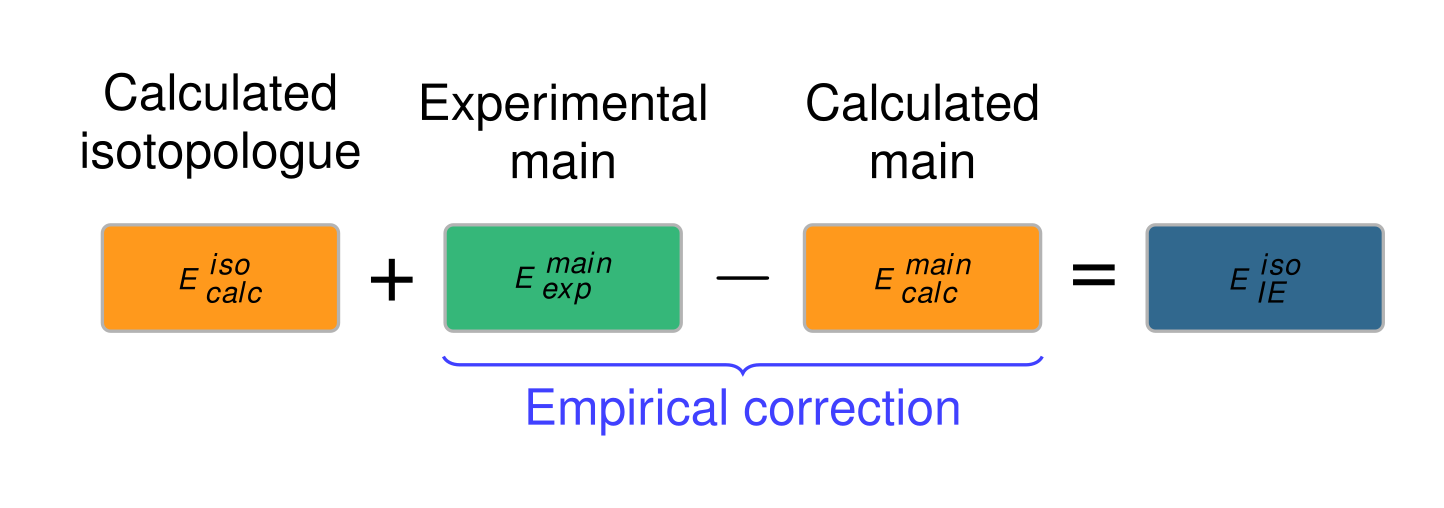
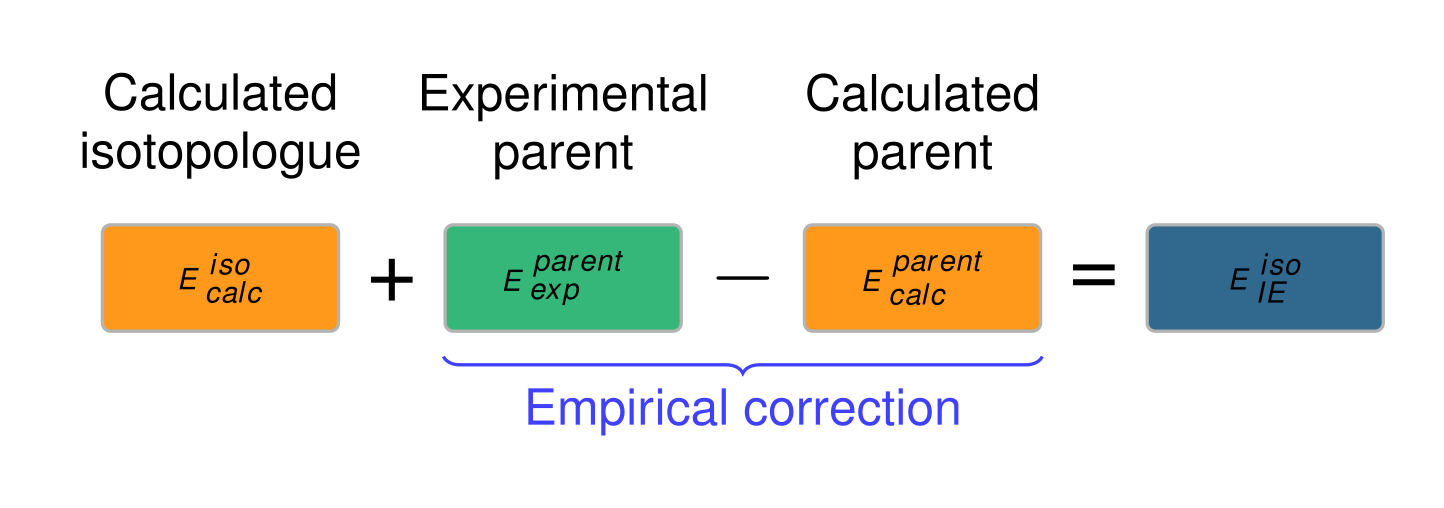
Updated IE method with correct naming convention for "parent" (most abundant) isotopologue

diff --git a/Isotopologue_extrapolation/ie.tex b/Isotopologue_extrapolation/ie.tex
@@ -28,9 +28,9 @@
 % Main equation boxes
 \node[box, calc] (iso) {$E_{calc}^{iso}$};
 \node[font=\huge, right=0.1cm of iso] (plus) {$+$};
-\node[box, exp, right=0.1cm of plus] (exp) {$E_{exp}^{main}$};
+\node[box, exp, right=0.1cm of plus] (exp) {$E_{exp}^{parent}$};
 \node[font=\huge, right=0.1cm of exp] (minus) {$-$};
-\node[box, calc, right=0.1cm of minus] (calc) {$E_{calc}^{main}$};
+\node[box, calc, right=0.1cm of minus] (calc) {$E_{calc}^{parent}$};
 \node[font=\huge, right=0.1cm of calc] (equals) {$=$};
 \node[box, ie, right=0.1cm of equals] (result) {$E_{IE}^{iso}$};
 
@@ -38,9 +38,9 @@
 \node[above=0.25cm of iso, font=\large, text width=2.5cm, align=center] 
      {Calculated\\isotopologue};
 \node[above=0.25cm of exp, font=\large, text width=2.5cm, align=center] 
-     {Experimental\\main};
+     {Experimental\\parent};
 \node[above=0.25cm of calc, font=\large, text width=2.5cm, align=center] 
-     {Calculated\\main};
+     {Calculated\\parent};
 
 % Brace showing correction
 \draw[decorate, decoration={brace, amplitude=4pt, mirror}, thick, blue!75]
